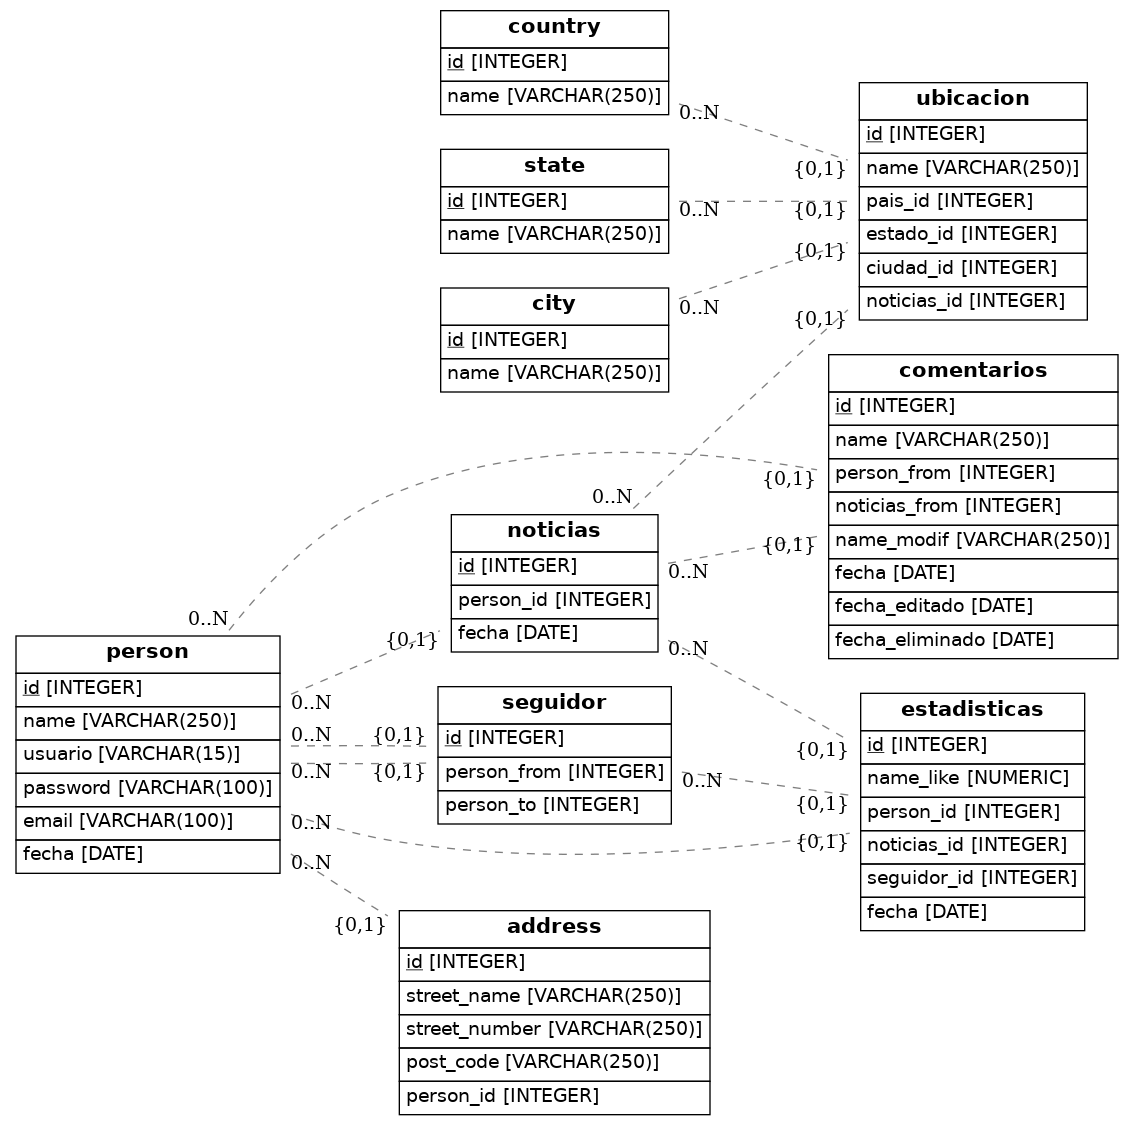
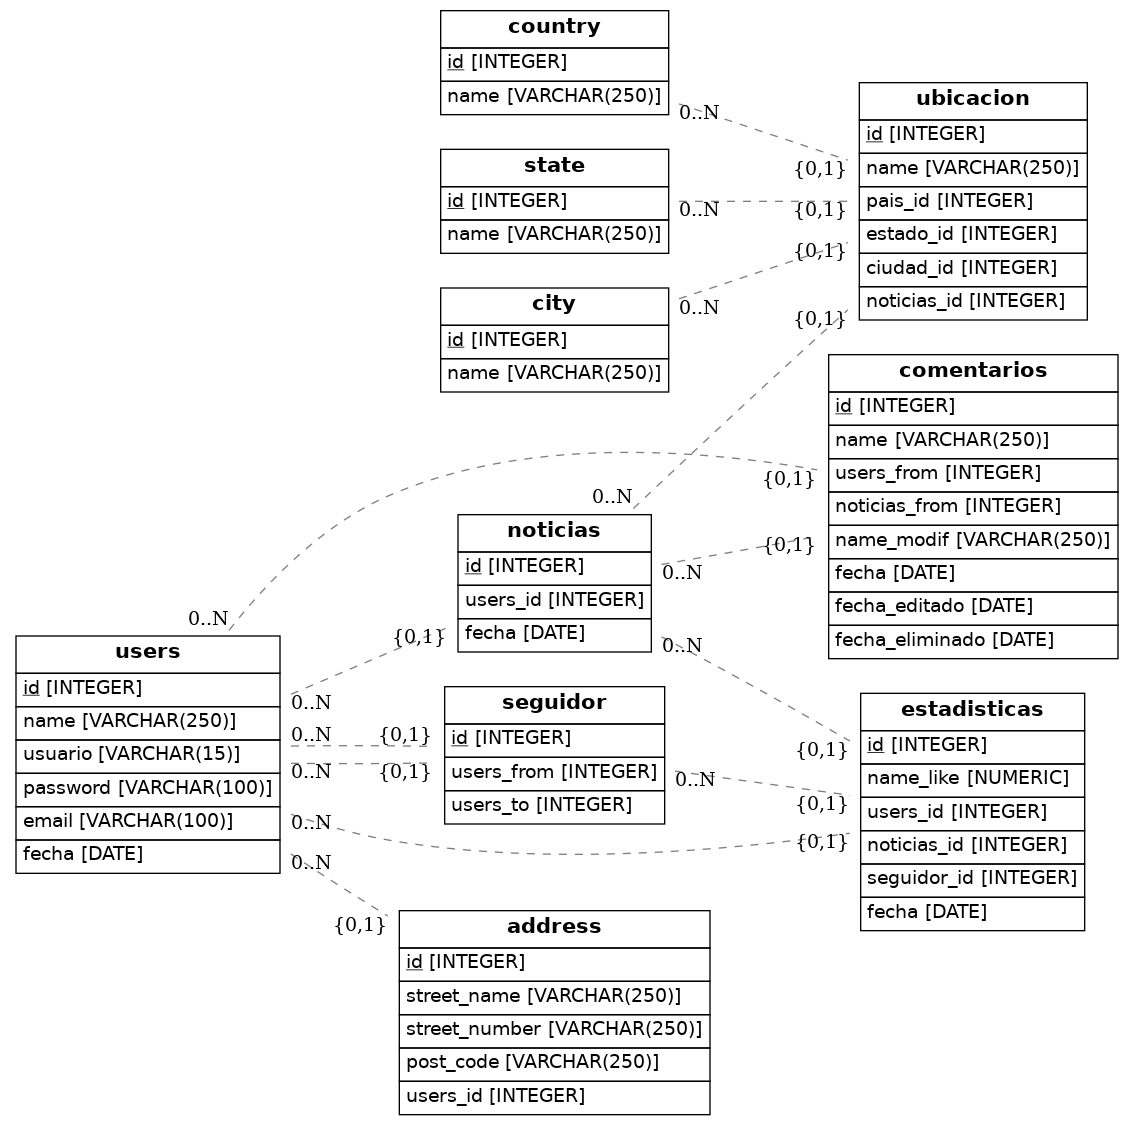
modified:   diagram.png modified:   src/models.py

diff --git a/src/models.py b/src/models.py
@@ -29,9 +29,9 @@ class Ciudad(Base):
     id = Column(Integer, primary_key=True)
     name = Column(String(250), nullable=False)
 
-class Person(Base):
-    __tablename__ = 'person'
-    # Here we define columns for the table person
+class User(Base):
+    __tablename__ = 'users'
+    # Here we define columns for the table users
     # Notice that each column is also a normal Python instance attribute.
     id = Column(Integer, primary_key=True)
     name = Column(String(250), nullable=False)
@@ -45,8 +45,8 @@ class Noticias(Base):
     # Here we define columns for the table noticias
     # Notice that each column is also a normal Python instance attribute.
     id = Column(Integer, primary_key=True)
-    person_id = Column(Integer, ForeignKey('person.id'))
-    person = relationship(Person)
+    users_id = Column(Integer, ForeignKey('users.id'))
+    users = relationship(User)
     fecha = Column(Date, nullable=False , unique=True)
 
 class Ubicacions(Base):
@@ -69,9 +69,9 @@ class Seguidor(Base):
     # Here we define columns for the table seguidor
     # Notice that each column is also a normal Python instance attribute.
     id = Column(Integer, primary_key=True)
-    person_from = Column(Integer, ForeignKey('person.id'))
-    person_to = Column(Integer, ForeignKey('person.id'))
-    person = relationship(Person)
+    users_from = Column(Integer, ForeignKey('users.id'))
+    users_to = Column(Integer, ForeignKey('users.id'))
+    users = relationship(User)
 
 class Comentarios(Base):
     __tablename__ = 'comentarios'
@@ -79,8 +79,8 @@ class Comentarios(Base):
     # Notice that each column is also a normal Python instance attribute.
     id = Column(Integer, primary_key=True)
     name = Column(String(250), nullable=True)
-    person_from = Column(Integer, ForeignKey('person.id'))
-    person = relationship(Person)
+    users_from = Column(Integer, ForeignKey('users.id'))
+    users = relationship(User)
     noticias_from = Column(Integer, ForeignKey('noticias.id'))
     noticias = relationship(Noticias)
     name_modif = Column(String(250), nullable=True)
@@ -94,8 +94,8 @@ class Estadisticas(Base):
     # Notice that each column is also a normal Python instance attribute.
     id = Column(Integer, primary_key=True)
     name_like = Column(Numeric, nullable=True)
-    person_id = Column(Integer, ForeignKey('person.id'))
-    person = relationship(Person)
+    users_id = Column(Integer, ForeignKey('users.id'))
+    users = relationship(User)
     noticias_id = Column(Integer, ForeignKey('noticias.id'))
     noticias = relationship(Noticias)
     seguidor_id = Column(Integer, ForeignKey('seguidor.id'))
@@ -110,8 +110,8 @@ class Address(Base):
     street_name = Column(String(250))
     street_number = Column(String(250))
     post_code = Column(String(250), nullable=False)
-    person_id = Column(Integer, ForeignKey('person.id'))
-    person = relationship(Person)
+    users_id = Column(Integer, ForeignKey('users.id'))
+    users = relationship(User)
 
     def to_dict(self):
         return {}
